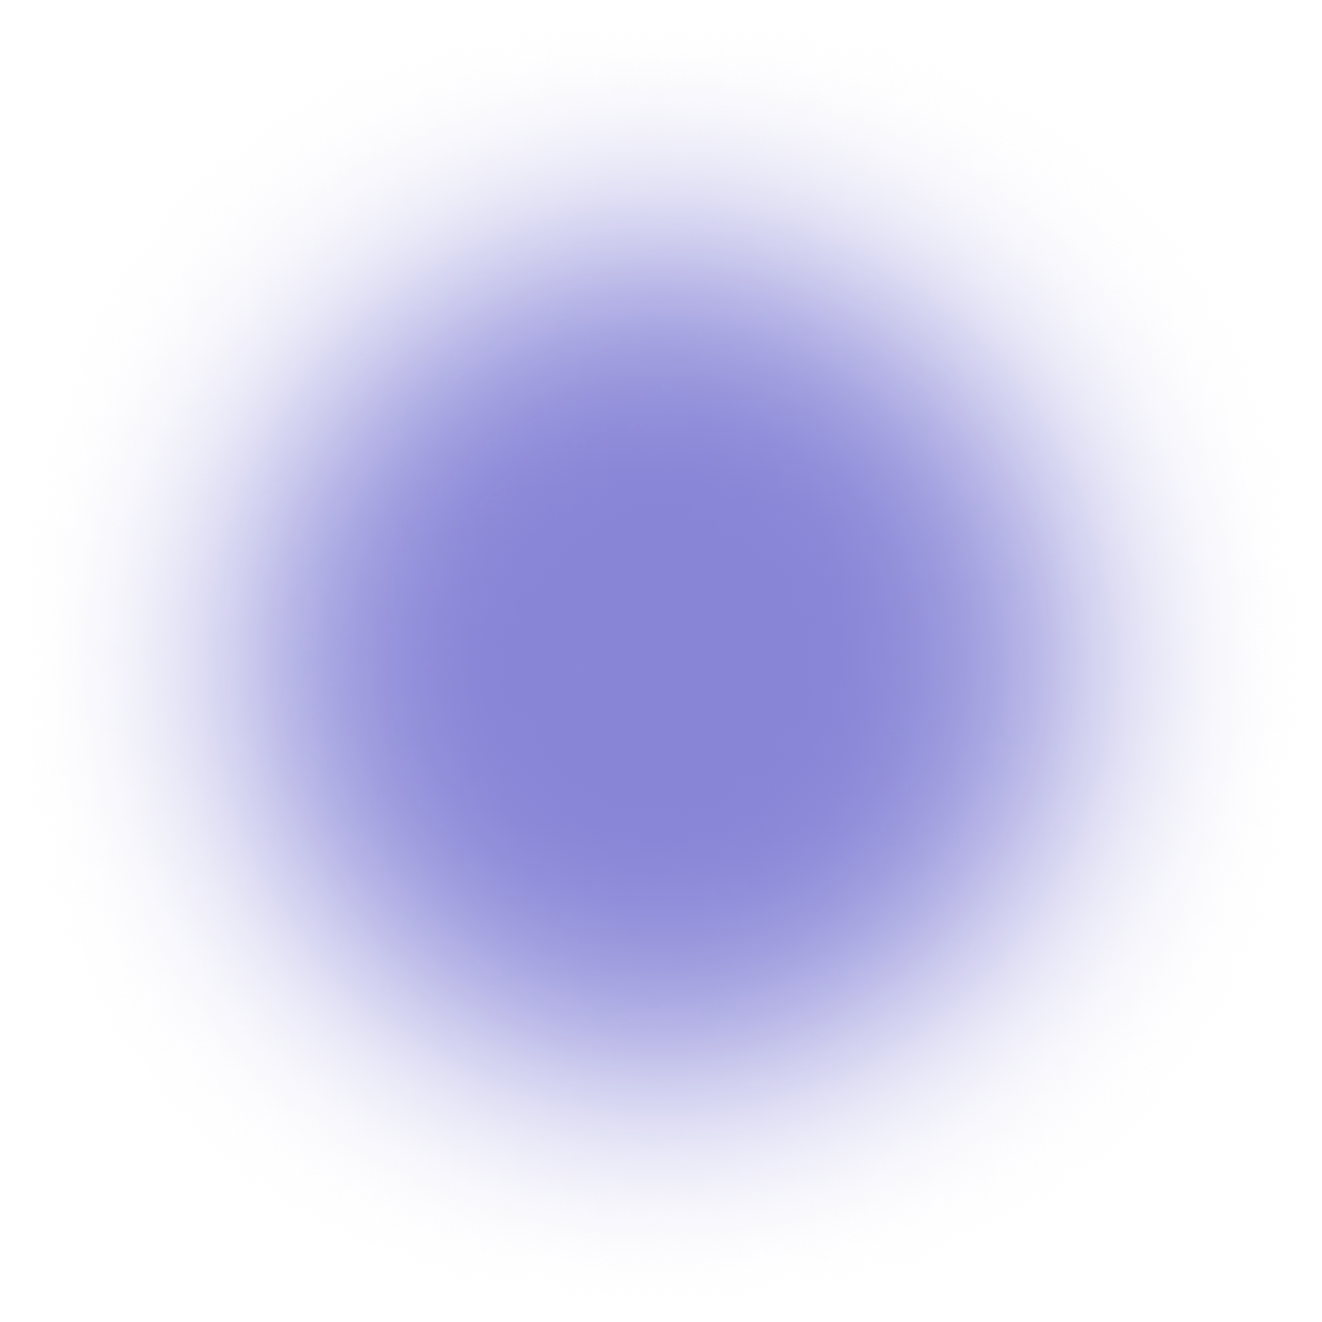
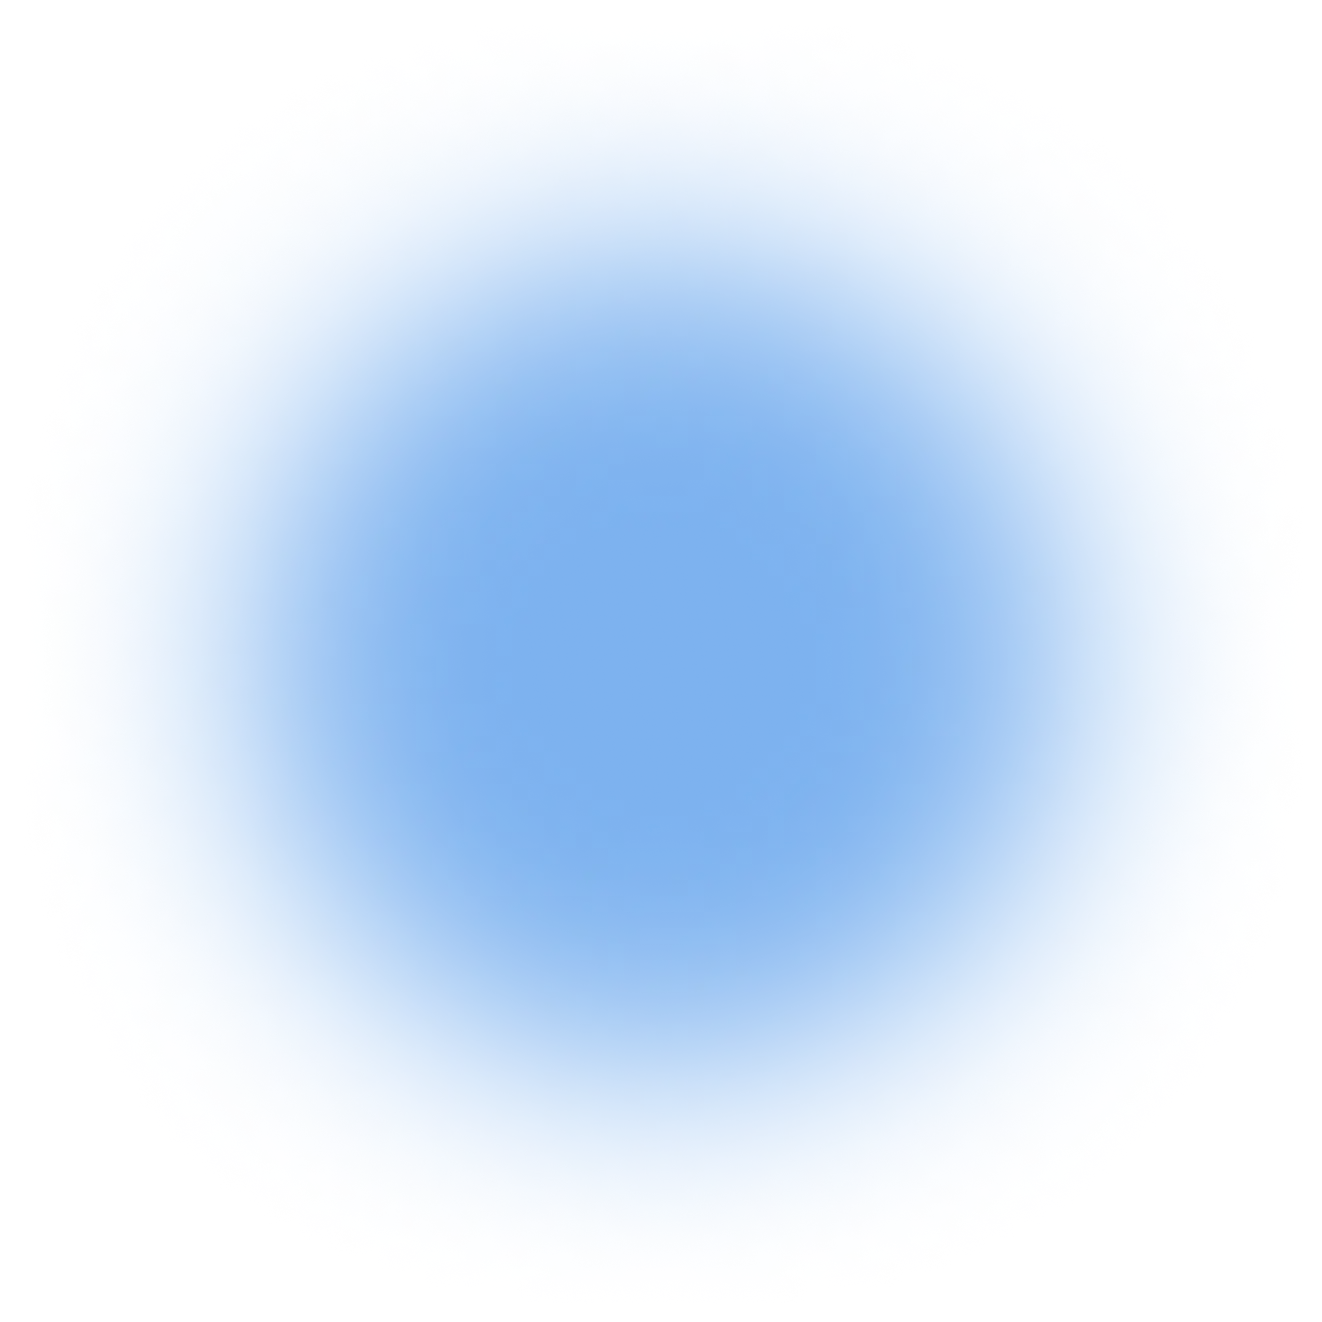
Update

Changed region(s): [[0.1861, 0.1861, 0.8064, 0.8064]]

diff --git a/src/styles/gradient.css b/src/styles/gradient.css
@@ -1,5 +1,5 @@
 .bouncing-blob {
-    width: 25vw;
+    width: 40vw;
     aspect-ratio: 1;
     border-radius: 50%;
     will-change: transform;
@@ -12,30 +12,29 @@
     background-repeat: no-repeat;
     background-size: contain;
     background-position: center center;
-    /* opacity: 0.5; */
+    opacity: 0.5;
   }
   
   .bouncing-blob--blue {
-    background: #a3e6ff
-    ;
-    /* background-image: url('/assets/gradient/blue.webp'); */
+    /* background: #a3e6ff; */
+    background-image: url('/assets/gradient/blue.webp');
   }
   
   .bouncing-blob--white {
-    background: #ffffff;
+    /* background: #ffffff; */
     z-index: 2;
-    width: 10vw;
-    /* background-image: url('/assets/gradient/white.webp'); */
+    width: 30vw;
+    background-image: url('/assets/gradient/white.webp');
   }
   
   .bouncing-blob--purple {
-    background: #56CCF2;
-    /* background-image: url('/assets/gradient/purple.webp'); */
+    /* background: #56CCF2; */
+    background-image: url('/assets/gradient/purple.webp');
   }
   
   .bouncing-blob--pink {
-    background: #B2FEFA;
-    /* background-image: url('/assets/gradient/pink.webp'); */
+    /* background: #B2FEFA; */
+    background-image: url('/assets/gradient/pink.webp');
   }
   
   .bouncing-blobs-container {
@@ -54,8 +53,8 @@
     left: 0;
     width: 100%;
     height: 100%;
-    backdrop-filter: blur(100px);
-    -webkit-backdrop-filter: blur(100px);
+    /* backdrop-filter: blur(100px);
+    -webkit-backdrop-filter: blur(100px); */
     pointer-events: none;
     background: #ffffff70;
   }
